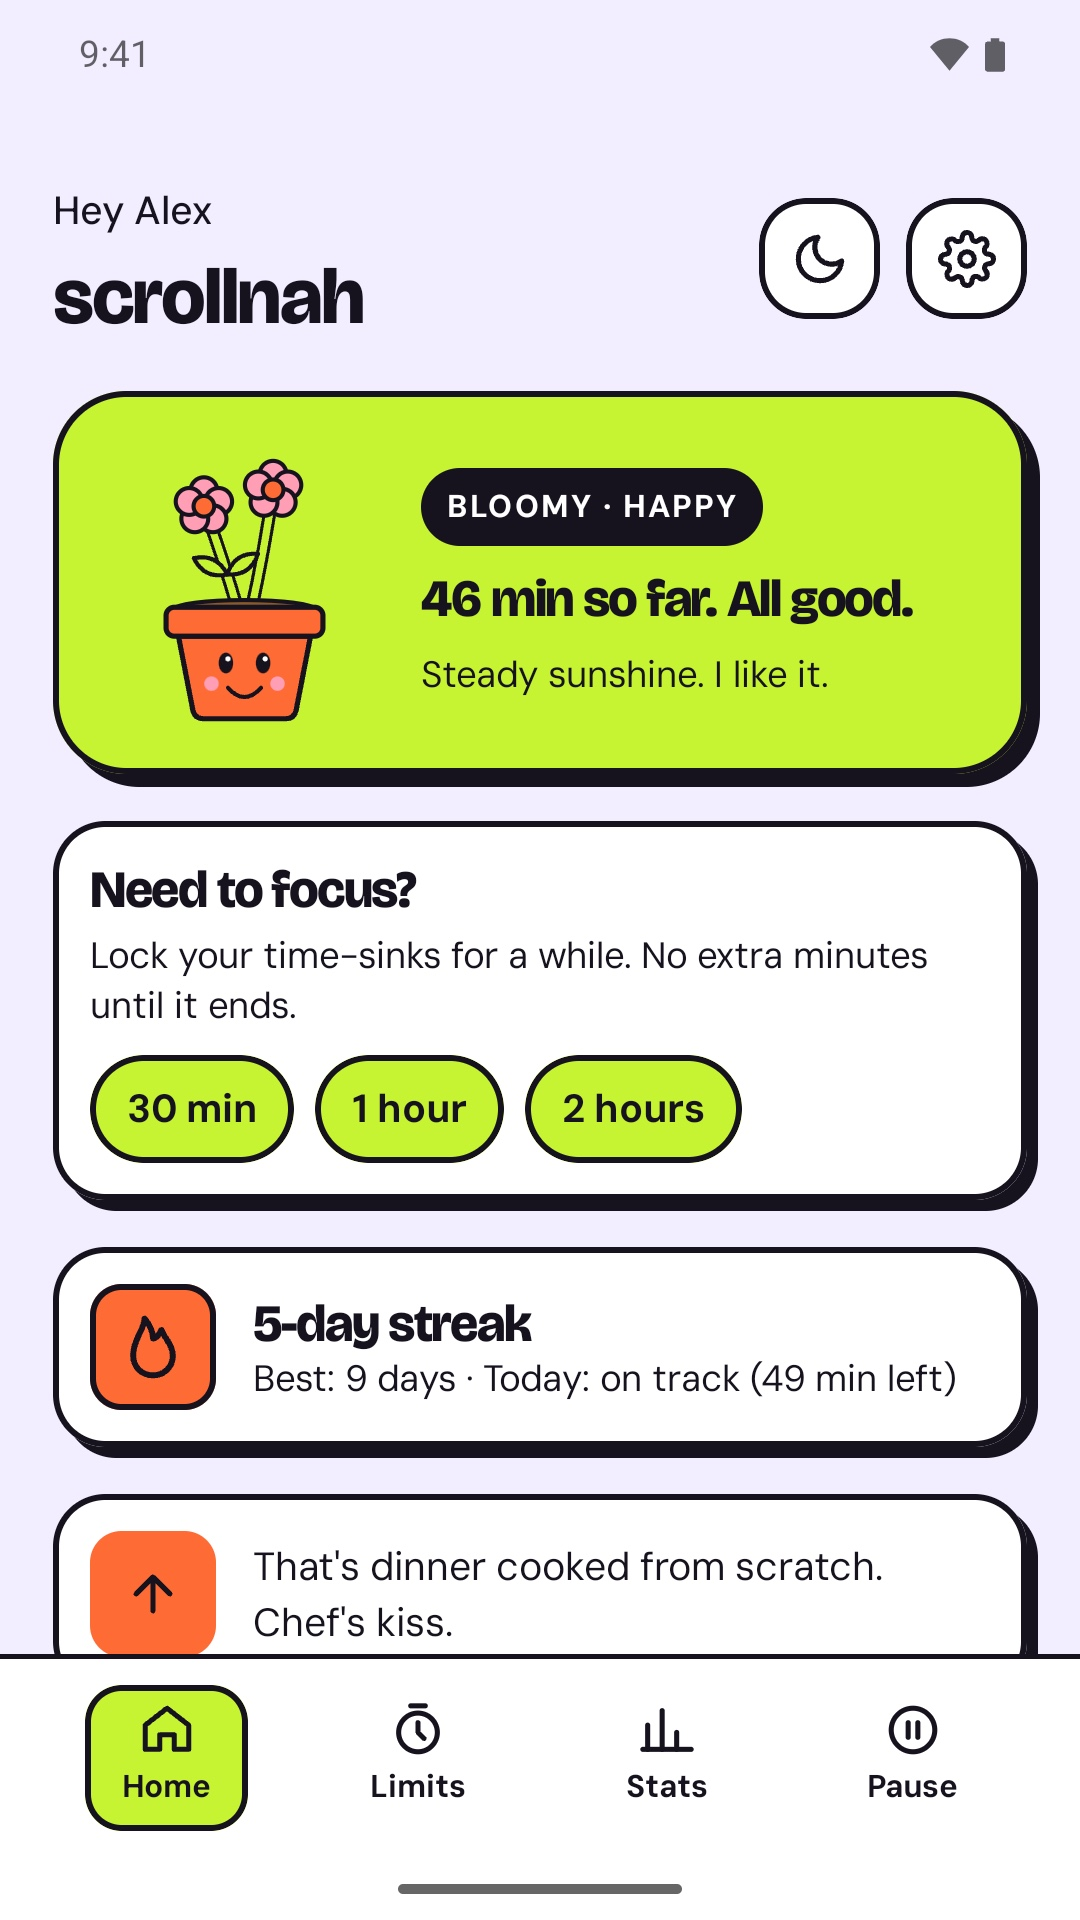
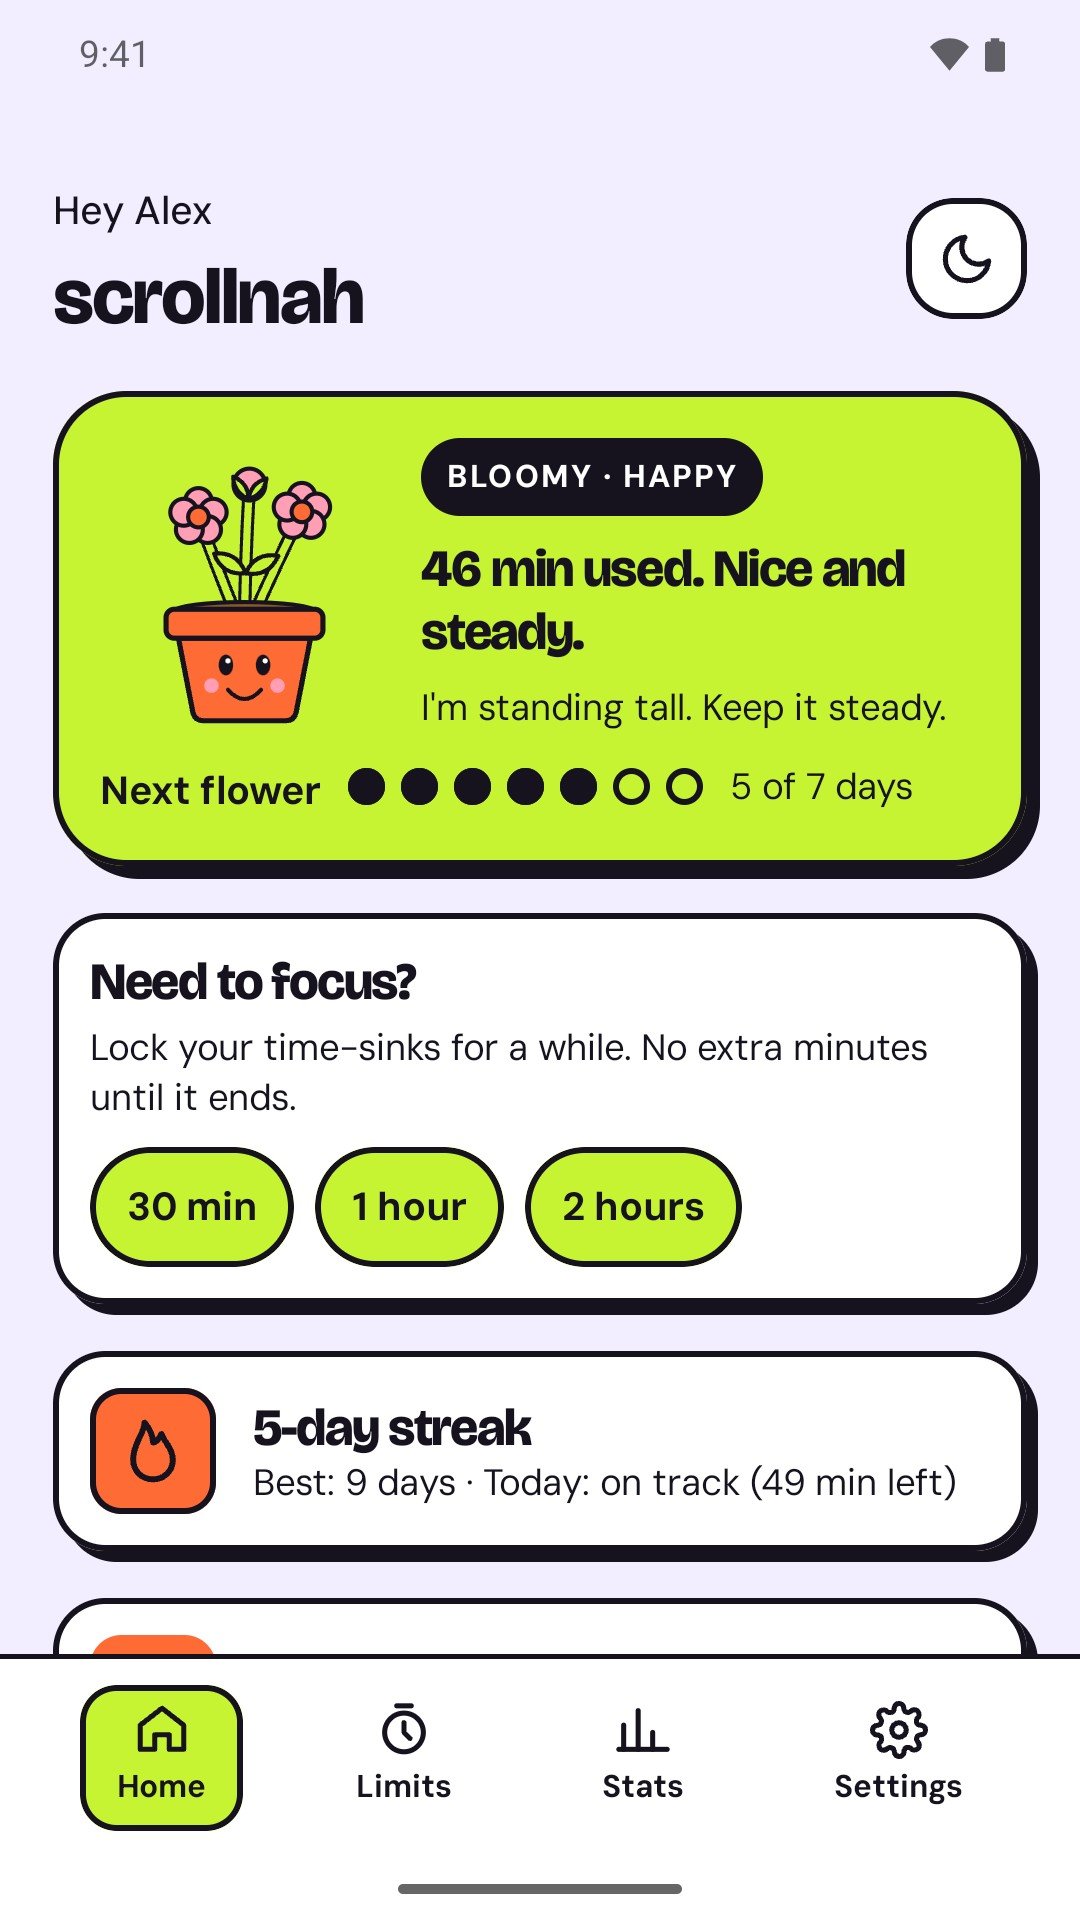
Play Store screenshots: new bottom bar and 2.2 features
Retook the 8 store screenshots (1080x1920, Play build, demo mode): Settings
tab, per-app Stats list, Bloomy's bud and "Next flower", weekend limits, the
current Pause screen and a real break reminder.

diff --git a/CLAUDE_UPDATES.md b/CLAUDE_UPDATES.md
@@ -388,7 +388,11 @@ debug gallery (below).
   bud + "Next flower"): home-blobby, stats, limits, break-reminders, home-bloomy, mascot-picker, garden, bloom.
   Same method as before (demo mode, System UI demo status bar 9:41, `sips -Z 1200`). Found while doing it: the
   Settings mascot card didn't show Bloomy's bud; fixed (`MascotChoice(budDays)`), not yet in a release.
-  **Play Store screenshots (`store/screenshots/`) still show the old Pause tab.**
+- Play Store screenshots (`store/screenshots/`, 8 x 1080x1920 JPEG) retaken the same day with the Play debug build
+  (`wm size 1080x1920`, demo mode, demo status bar): new bottom bar, per-app Stats list, Bloomy's bud + "Next flower",
+  Limits with a weekend limit, Pause screen from the Limits preview, and a real break reminder (Chrome with a 5 min
+  per-app break time, Wikipedia page, notification + bubble). `store/listing.md` text not updated for the 2.1-2.2
+  features yet (weekend limits, Focus tile, per-app stats, week in review).
 
 ## Blocked apps can't keep playing in a floating window (2026-10-30, developer report)
 Released in 2.2.2. After pausing, `LimitActions.showFloatingPaused()` posts "<Mascot>: <App> is paused" (why: limit /
